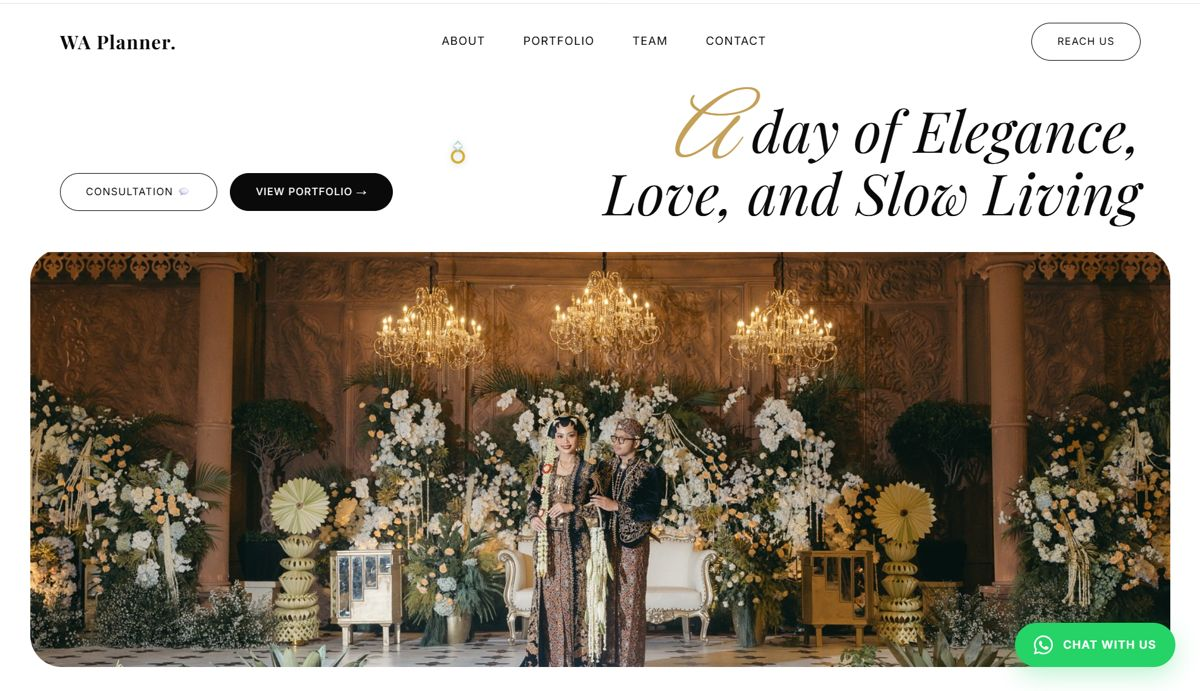
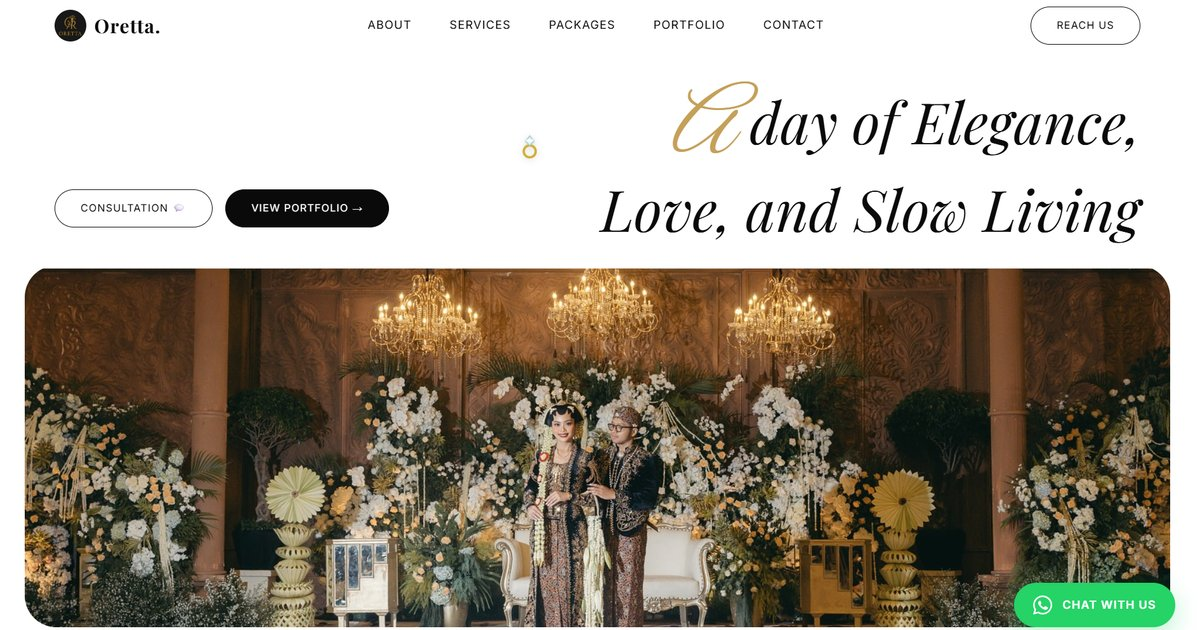
first commit

diff --git a/index.html b/index.html
@@ -9,13 +9,13 @@
     <!-- Open Graph Meta Tags for Social Media / WhatsApp -->
     <meta property="og:title" content="Oretta Wedding Organizer | Crafting Your Golden Moment" />
     <meta property="og:description" content="A premier wedding planning and event organizing service based in Bandung Raya. We are dedicated to crafting your golden moments into reality with our bespoke, luxurious touch." />
-    <meta property="og:image" content="https://wa-wedding.vercel.app/images/banner_compressed.jpg" />
+    <meta property="og:image" content="https://oretta-wedding.vercel.app/images/banner_compressed.jpg" />
     <meta property="og:image:width" content="1200" />
     <meta property="og:image:height" content="630" />
-    <meta property="og:url" content="https://wa-wedding.vercel.app/" />
+    <meta property="og:url" content="https://oretta-wedding.vercel.app/" />
     <meta property="og:type" content="website" />
     <meta name="twitter:card" content="summary_large_image" />
-    <meta name="twitter:image" content="https://wa-wedding.vercel.app/images/banner_compressed.jpg" />
+    <meta name="twitter:image" content="https://oretta-wedding.vercel.app/images/banner_compressed.jpg" />
     <!-- Google Fonts -->
     <link rel="preconnect" href="https://fonts.googleapis.com">
     <link rel="preconnect" href="https://fonts.gstatic.com" crossorigin>

diff --git a/portfolio.html b/portfolio.html
@@ -9,13 +9,13 @@
     <!-- Open Graph Meta Tags for Social Media / WhatsApp -->
     <meta property="og:title" content="Our Signature Collections | Oretta Wedding Organizer" />
     <meta property="og:description" content="A curated selection of our finest works. Every golden moment is a masterpiece, crafted with precision and love." />
-    <meta property="og:image" content="https://wa-wedding.vercel.app/images/banner_compressed.jpg" />
+    <meta property="og:image" content="https://oretta-wedding.vercel.app/images/banner_compressed.jpg" />
     <meta property="og:image:width" content="1200" />
     <meta property="og:image:height" content="630" />
-    <meta property="og:url" content="https://wa-wedding.vercel.app/portfolio.html" />
+    <meta property="og:url" content="https://oretta-wedding.vercel.app/portfolio.html" />
     <meta property="og:type" content="website" />
     <meta name="twitter:card" content="summary_large_image" />
-    <meta name="twitter:image" content="https://wa-wedding.vercel.app/images/banner_compressed.jpg" />
+    <meta name="twitter:image" content="https://oretta-wedding.vercel.app/images/banner_compressed.jpg" />
     <link rel="preconnect" href="https://fonts.googleapis.com">
     <link rel="preconnect" href="https://fonts.gstatic.com" crossorigin>
     <link href="https://fonts.googleapis.com/css2?family=Great+Vibes&family=Inter:wght@300;400;500;600&family=Playfair+Display:ital,wght@0,400;0,600;0,700;1,400&display=swap" rel="stylesheet">

diff --git a/venue.html b/venue.html
@@ -9,13 +9,13 @@
     <!-- Open Graph Meta Tags for Social Media / WhatsApp -->
     <meta property="og:title" content="Daftar Venue Pilihan | Oretta Wedding Organizer" />
     <meta property="og:description" content="Pilih venue impianmu. Semua harga paket di bawah ini sudah All-In 100 pax." />
-    <meta property="og:image" content="https://wa-wedding.vercel.app/images/banner_compressed.jpg" />
+    <meta property="og:image" content="https://oretta-wedding.vercel.app/images/banner_compressed.jpg" />
     <meta property="og:image:width" content="1200" />
     <meta property="og:image:height" content="630" />
-    <meta property="og:url" content="https://wa-wedding.vercel.app/portfolio.html" />
+    <meta property="og:url" content="https://oretta-wedding.vercel.app/venue.html" />
     <meta property="og:type" content="website" />
     <meta name="twitter:card" content="summary_large_image" />
-    <meta name="twitter:image" content="https://wa-wedding.vercel.app/images/banner_compressed.jpg" />
+    <meta name="twitter:image" content="https://oretta-wedding.vercel.app/images/banner_compressed.jpg" />
     <link rel="preconnect" href="https://fonts.googleapis.com">
     <link rel="preconnect" href="https://fonts.gstatic.com" crossorigin>
     <link href="https://fonts.googleapis.com/css2?family=Great+Vibes&family=Inter:wght@300;400;500;600&family=Playfair+Display:ital,wght@0,400;0,600;0,700;1,400&display=swap" rel="stylesheet">